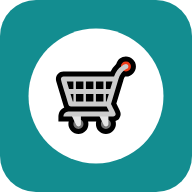
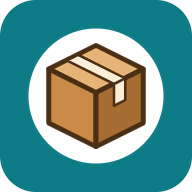
Materiali v5: l'app Acquisti si chiama Materiali, scatola come icona
Solo identita': nome, simbolo, colore #0e7c86, icone, ?v=5.
Nessun SQL, nessuna funzione nuova. Repo e indirizzo invariati.

diff --git a/index.html b/index.html
@@ -3,25 +3,25 @@
 <head>
   <meta charset="UTF-8" />
   <meta name="viewport" content="width=device-width, initial-scale=1.0, viewport-fit=cover" />
-  <title>Acquisti · Carpenteria Ticinese</title>
+  <title>Materiali · Carpenteria Ticinese</title>
   <meta name="robots" content="noindex" />
-  <meta name="theme-color" content="#138d90" />
-  <link rel="manifest" href="manifest.json?v=4" />
-  <link rel="icon" type="image/png" sizes="32x32" href="icone/icona-32.png?v=4" />
-  <link rel="apple-touch-icon" href="icone/icona-180.png?v=4" />
-  <meta name="apple-mobile-web-app-title" content="Acquisti" />
+  <meta name="theme-color" content="#0e7c86" />
+  <link rel="manifest" href="manifest.json?v=5" />
+  <link rel="icon" type="image/png" sizes="32x32" href="icone/icona-32.png?v=5" />
+  <link rel="apple-touch-icon" href="icone/icona-180.png?v=5" />
+  <meta name="apple-mobile-web-app-title" content="Materiali" />
   <meta name="apple-mobile-web-app-capable" content="yes" />
   <meta name="mobile-web-app-capable" content="yes" />
   <!-- ?v= : forza il browser a riprendere CSS/JS aggiornati. index.html resta in
        cache: dopo ogni caricamento su GitHub si apre con Ctrl+F5. -->
-  <link rel="stylesheet" href="style.css?v=4" />
+  <link rel="stylesheet" href="style.css?v=5" />
 </head>
-<body data-versione="4">
+<body data-versione="5">
 
 <!-- ═══ LOGIN ═══════════════════════════════════════════════════════════════ -->
 <section id="pagina-login" class="pagina-centro" hidden>
   <div class="card-login">
-    <div class="logo">🛒 <strong>Acquisti</strong><span>Carpenteria Ticinese</span></div>
+    <div class="logo">📦 <strong>Materiali</strong><span>Carpenteria Ticinese</span></div>
     <form id="login-form" autocomplete="on">
       <label for="login-email">Email</label>
       <input id="login-email" type="email" autocomplete="username" required />
@@ -29,7 +29,7 @@
       <input id="login-password" type="password" autocomplete="current-password" required />
       <div id="login-banner" aria-live="polite" style="margin-top:12px"></div>
       <button id="login-btn" type="submit" class="btn btn-primario btn-largo" style="margin-top:8px">Entra</button>
-      <p class="aiuto" style="margin-top:12px">Si entra con gli stessi email e password delle altre app. (Acquisti, ex Radar, ex Fornitori.)</p>
+      <p class="aiuto" style="margin-top:12px">Si entra con gli stessi email e password delle altre app. (Materiali, ex Radar, ex Fornitori.)</p>
       <p class="aiuto" id="versione-login" style="margin-top:4px"></p>
     </form>
   </div>
@@ -38,8 +38,8 @@
 <!-- ═══ RUOLO NON AMMESSO ═══════════════════════════════════════════════════ -->
 <section id="pagina-negato" class="pagina-centro" hidden>
   <div class="card-login">
-    <div class="logo">🛒 <strong>Acquisti</strong><span>Carpenteria Ticinese</span></div>
-    <div class="banner warn">🔒 Acquisti è riservato a titolare e responsabile.</div>
+    <div class="logo">📦 <strong>Materiali</strong><span>Carpenteria Ticinese</span></div>
+    <div class="banner warn">🔒 Materiali è riservato a titolare e responsabile.</div>
     <p id="negato-dettaglio" class="dim"></p>
     <button type="button" class="btn btn-largo" id="negato-esci">🚪 Esci</button>
   </div>
@@ -48,7 +48,7 @@
 <!-- ═══ APP ═════════════════════════════════════════════════════════════════ -->
 <section id="pagina-app" hidden>
   <header id="topbar">
-    <span class="titolo">🛒 Acquisti</span><span class="ver" id="versione-topbar"></span>
+    <span class="titolo">📦 Materiali</span><span class="ver" id="versione-topbar"></span>
     <div class="utente">
       <span id="topbar-utente"></span>
       <button type="button" class="btn btn-piccolo" id="btn-esci">🚪 Esci</button>
@@ -85,15 +85,15 @@
 <!-- Supabase (versione fissa). SheetJS, pdf.js e Chart.js si caricano solo
      quando servono (vedi caricaLibreria in base.js). -->
 <script src="https://cdn.jsdelivr.net/npm/@supabase/supabase-js@2.45.4/dist/umd/supabase.js"></script>
-<script src="calcolo.js?v=4"></script>
-<script src="base.js?v=4"></script>
-<script src="cerca.js?v=4"></script>
-<script src="fornitori.js?v=4"></script>
-<script src="importa.js?v=4"></script>
-<script src="variazioni.js?v=4"></script>
-<script src="richieste.js?v=4"></script>
-<script src="documenti.js?v=4"></script>
-<script src="impostazioni.js?v=4"></script>
-<script src="avvio.js?v=4"></script>
+<script src="calcolo.js?v=5"></script>
+<script src="base.js?v=5"></script>
+<script src="cerca.js?v=5"></script>
+<script src="fornitori.js?v=5"></script>
+<script src="importa.js?v=5"></script>
+<script src="variazioni.js?v=5"></script>
+<script src="richieste.js?v=5"></script>
+<script src="documenti.js?v=5"></script>
+<script src="impostazioni.js?v=5"></script>
+<script src="avvio.js?v=5"></script>
 </body>
 </html>

diff --git a/fornitori.js b/fornitori.js
@@ -27,7 +27,7 @@ async function disegnaFornitori() {
       '<option value="ditte"' + (FORN.gruppo === 'ditte' ? ' selected' : '') + '>🔎 Ditte da valutare (' + (RF.ditte || []).length + ')</option>' +
     '</select>' +
     '<div class="gruppo-btn" style="margin:8px 0" id="fo-filtri"' + (FORN.gruppo === 'ditte' ? ' hidden' : '') + '>' +
-      '<label class="scelta"><input type="checkbox" id="fo-prezzi"' + (FORN.soloConPrezzi ? ' checked' : '') + '> Solo con scheda acquisti</label>' +
+      '<label class="scelta"><input type="checkbox" id="fo-prezzi"' + (FORN.soloConPrezzi ? ' checked' : '') + '> Solo con scheda Materiali</label>' +
       '<label class="scelta"><input type="checkbox" id="fo-arch"' + (FORN.archiviati ? ' checked' : '') + '> Mostra archiviati</label>' +
     '</div>' +
     '<div id="fo-conteggio" class="conteggio"></div><div id="fo-elenco" class="elenco"></div>'
@@ -57,7 +57,7 @@ function elencoFornitori() {
   html('fo-elenco', lista.map(function (f) {
     var r = f.radar, k = f.contatto
     var t = []
-    if (!r) t.push(tag('', '➕', 'Senza scheda acquisti'))
+    if (!r) t.push(tag('', '➕', 'Senza scheda Materiali'))
     if (r && r.archiviato) t.push(tag('', '📦', 'Archiviato'))
     if (k && k.attivo === false) t.push(tag('', '📦', 'Archiviato in Rubrica'))
     if (r && r.valuta === 'EUR') t.push(tag('info', '💶', 'EUR'))
@@ -179,7 +179,7 @@ function finestraDiventaFornitore(d) {
       .filter(function (f) { return f.contatto && f.contatto.attivo !== false })
       .map(function (f) {
         return '<option value="' + f.contatto.id + '"' + (f.contatto.id === att ? ' selected' : '') + '>' + esc(f.nome) +
-          (f.radar ? ' — ha già una scheda acquisti: si uniscono' : '') + '</option>'
+          (f.radar ? ' — ha già una scheda Materiali: si uniscono' : '') + '</option>'
       }).join('')
     html(fin.q('#dv-info'), proposto && proposto.contatto ? 'Proposto per nome: <strong>' + esc(proposto.nome) + '</strong>. Controlla che sia la ditta giusta.' :
       'Nessun contatto con questo nome: crealo prima nella Rubrica.')
@@ -243,7 +243,7 @@ async function disegnaFornitore(param) {
       '</div>' : banner('warn', 'Il contatto della Rubrica non si legge (permessi o contatto archiviato).')) +
     '</div>' +
 
-    '<div class="scheda"><h2>🛒 Dati d\'acquisto</h2>' +
+    '<div class="scheda"><h2>📦 Dati d\'acquisto</h2>' +
       '<fieldset style="border:0;padding:0;margin:0"><legend style="font-weight:600">Attività (più di una se serve)</legend>' +
         '<div class="gruppo-btn">' + servizi.map(function (c) {
           var on = r && (r.attivita || []).indexOf(c.nome) >= 0

diff --git a/style.css b/style.css
@@ -1,4 +1,4 @@
-/* Acquisti (ex Radar, ex Fornitori) — Carpenteria Ticinese | Stile
+/* Materiali — Carpenteria Ticinese | Stile
    Stessa tavolozza di Rubrica e Pre-contabilità.
    Regole: testo minimo 16 px, usabile a 360 px, icone sempre con testo,
    mai un significato dato solo dal colore, azione principale in basso a destra. */
@@ -6,7 +6,7 @@
 :root {
   --bg:         #f4f6f8;
   --surface:    #ffffff;
-  --primary:    #138d90;
+  --primary:    #0e7c86;
   --primary-dk: #0d6568;
   --primary-lt: #e3f4f4;
   --text:       #111827;
@@ -128,7 +128,7 @@ input, select, textarea {
   border: 1px solid var(--border); border-radius: 8px; background: #fff; color: var(--text);
 }
 textarea { min-height: 120px; resize: vertical; }
-input:focus, select:focus, textarea:focus { outline: 3px solid rgba(19,141,144,.35); border-color: var(--primary); }
+input:focus, select:focus, textarea:focus { outline: 3px solid rgba(14,124,134,.35); border-color: var(--primary); }
 input[type="checkbox"], input[type="radio"] { width: 22px; min-height: 22px; height: 22px; margin: 0; accent-color: var(--primary); }
 .scelta { display: flex; align-items: center; gap: 10px; font-weight: 400; margin: 8px 0; cursor: pointer; }
 .aiuto { font-size: 15px; color: var(--text2); margin-top: 4px; }

diff --git a/base.js b/base.js
@@ -1,4 +1,4 @@
-// Acquisti (ex Radar, ex Fornitori) — base.js
+// Materiali — base.js
 // Configurazione, login, ruolo, caricamento dei dati, attrezzi comuni
 // (finestre, avvisi, menu con ricerca, Worker, foto, file).
 //
@@ -14,7 +14,7 @@ var URL_RUBRICA  = 'https://carpenteria-ticinese.github.io/CT-rubrica/'
 var BUCKET_FOTO  = 'rf-foto'
 var BUCKET_DOC   = 'rf-documenti'
 var LIMITE_FILE_MB = 10
-var APP_VERSIONE = 4
+var APP_VERSIONE = 5
 
 var LIBRERIE = {
   xlsx:  'https://cdnjs.cloudflare.com/ajax/libs/xlsx/0.18.5/xlsx.full.min.js',
@@ -303,7 +303,7 @@ async function assicuraFornitoreRadar(contattoId) {
   }
   await caricaFornitori(true)
   var g = fornitoreDaContatto(contattoId)
-  if (!g || !g.id) throw new Error('scheda acquisti del fornitore non creata')
+  if (!g || !g.id) throw new Error('scheda Materiali del fornitore non creata')
   return g.id
 }
 

diff --git a/impostazioni.js b/impostazioni.js
@@ -143,7 +143,7 @@ async function spazio() {
     (pct > 80 ? banner('warn', 'Lo spazio sta finendo: oltre 1 GB serve il piano a pagamento di Supabase.') : '') +
     '<div class="tabella-wrap" style="margin-top:10px"><table class="tab"><thead><tr><th>Bucket</th><th class="num">File</th><th class="num">Spazio</th></tr></thead><tbody>' +
     righe.map(function (x) {
-      return '<tr><td>' + esc(x.bucket) + (/^rf-/.test(x.bucket) ? ' ' + tag('info', '🛒', 'Acquisti') : '') + '</td><td class="num">' + x.file + '</td><td class="num">' + mb(x.byte) + '</td></tr>'
+      return '<tr><td>' + esc(x.bucket) + (/^rf-/.test(x.bucket) ? ' ' + tag('info', '📦', 'Materiali') : '') + '</td><td class="num">' + x.file + '</td><td class="num">' + mb(x.byte) + '</td></tr>'
     }).join('') + '</tbody></table></div>')
   el('im-spazio').classList.remove('caricamento')
 }

diff --git a/documenti.js b/documenti.js
@@ -1,4 +1,4 @@
-// Acquisti — documenti.js
+// Materiali — documenti.js
 // Archivio privato di offerte e listini (bucket rf-documenti): ogni documento è la prova dei suoi prezzi.
 // I file si aprono solo con link firmati a tempo (apriDocumento in base.js).
 

diff --git a/avvio.js b/avvio.js
@@ -1,5 +1,5 @@
-// Acquisti (ex Radar, ex Fornitori) — avvio.js
-// Collega i pulsanti fissi e decide la prima pagina (login o Acquisti).
+// Materiali — avvio.js
+// Collega i pulsanti fissi e decide la prima pagina (login o Materiali).
 
 'use strict'
 
